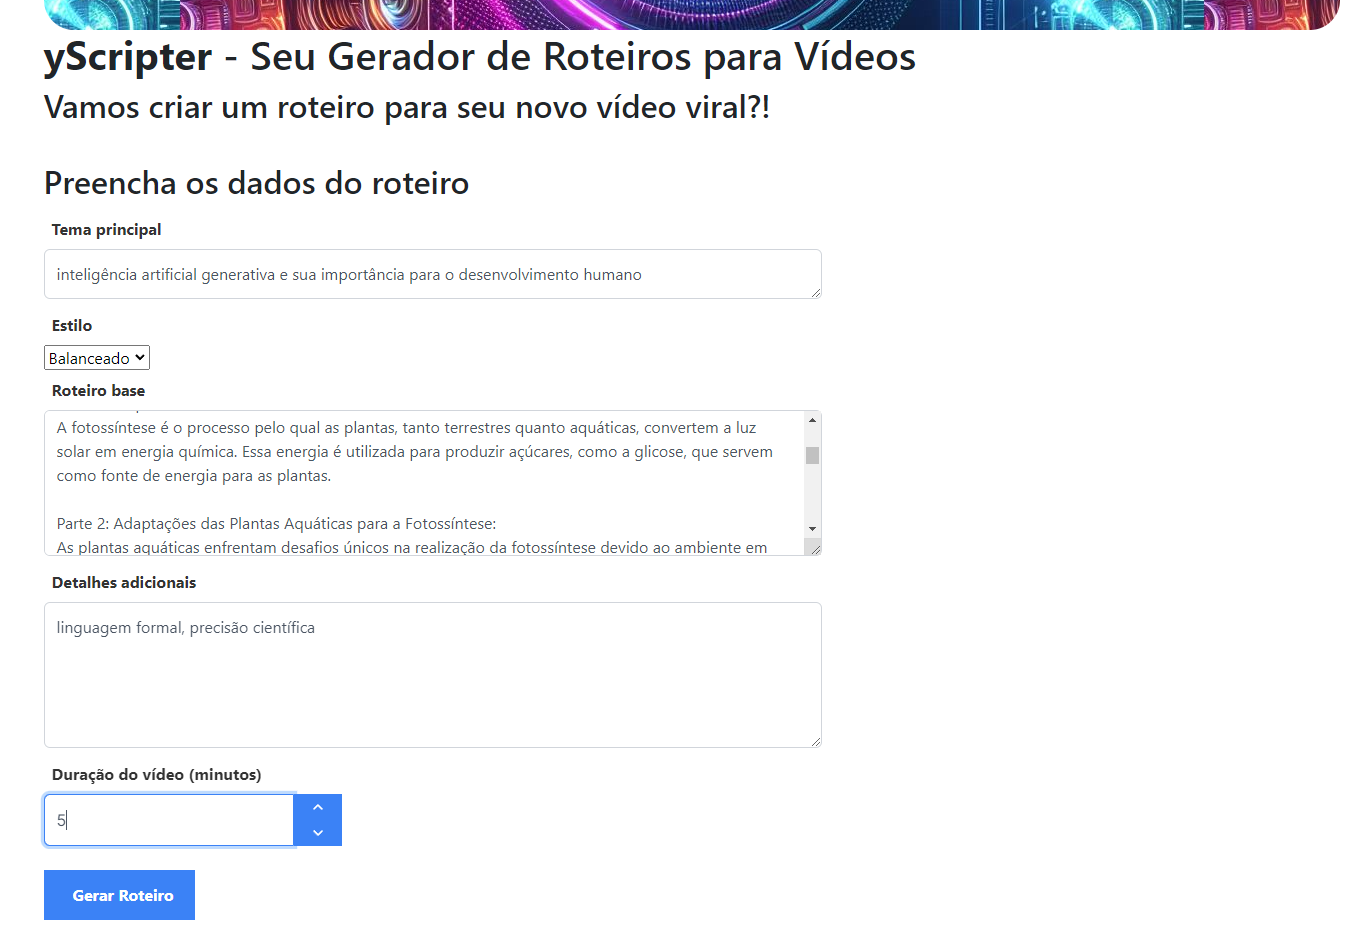
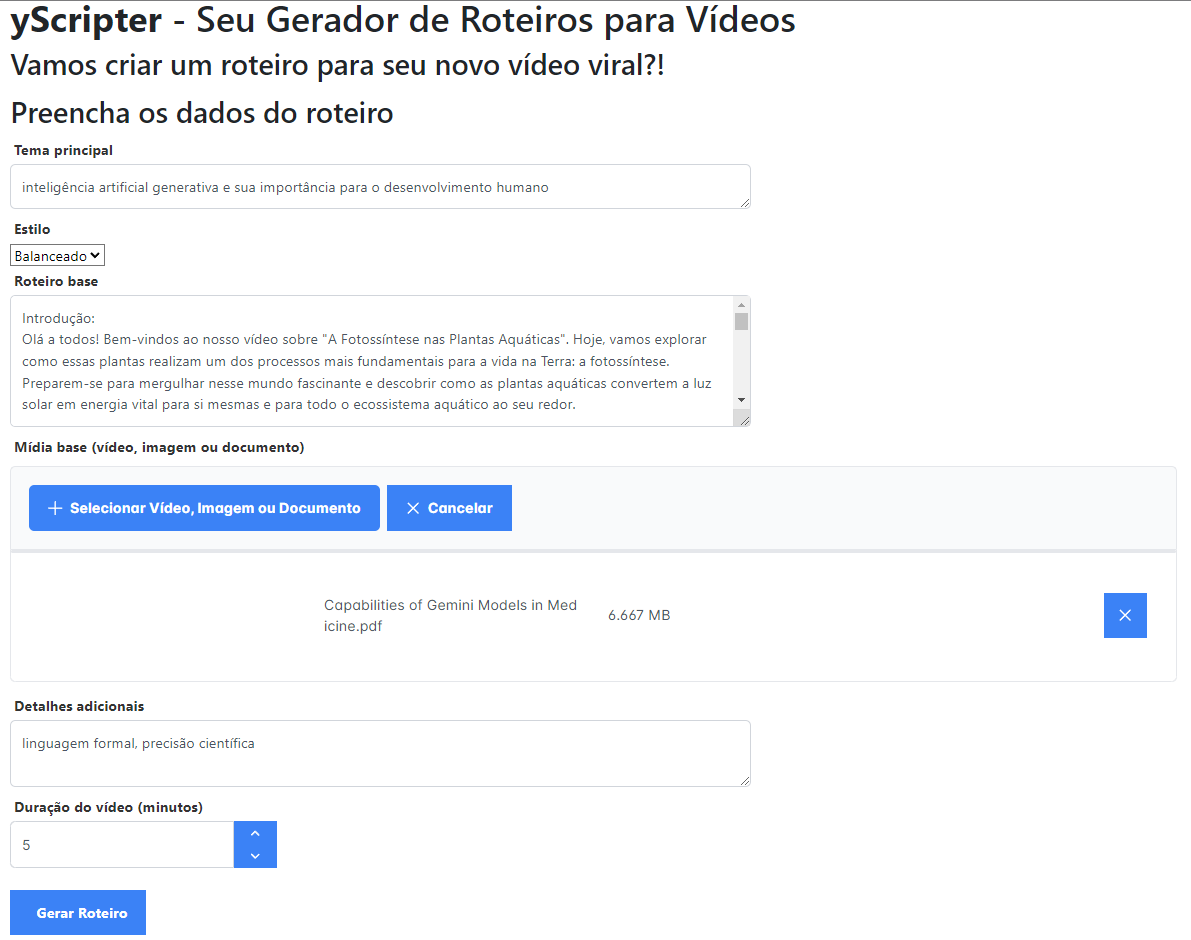
Implementation of multimedia based functionality

diff --git a/yscripter-app/src/app/generate-script/generate-script.component.html b/yscripter-app/src/app/generate-script/generate-script.component.html
@@ -36,7 +36,41 @@
             [(ngModel)]="reutilize">
         </textarea>
     </div>
-    
+
+    <div>
+        <label class="custom-label" for="reutilize">Mídia base (vídeo, imagem ou documento)</label>
+    </div>
+    <div class="upload-images-container">
+        <!-- [auto]="true"  -->
+        <!--  -->
+        <p-fileUpload 
+            name="file[]" 
+            url="http://localhost:5000/uploadfake"
+            (onSelect)="onSelect($event)"
+            (onCancel)="onCancel()"
+            [showUploadButton]="false"
+            [multiple]="false"
+            chooseLabel="Selecionar Vídeo, Imagem ou Documento"
+            cancelLabel="Cancelar">
+            <ng-template pTemplate="content">
+                <div *ngIf="loading" style="text-align: center;">
+                    <p-progressSpinner 
+                        styleClass="w-4rem h-4rem" 
+                        strokeWidth="2" 
+                        fill="var(--surface-ground)" 
+                        animationDuration="0.8s" />
+                </div>
+                <!-- <p *ngIf="!uploadedFiles.length && !hasSelectedFiles" style="text-align: center; margin: 0px;">Selecione as fotos e clique em "Avaliar Veículo".</p>
+                <p *ngIf="showEvaluateInfo" style="text-align: center; margin: 0px;">Avaliação Concluída.</p> -->
+                <!-- <ul *ngIf="uploadedFiles.length">
+                    <li *ngFor="let file of uploadedFiles">
+                        {{ file.name }} - {{ file.size }} bytes
+                    </li>
+                </ul> -->
+            </ng-template>
+        </p-fileUpload>
+    </div>
+
     <div>
         <label class="custom-label" for="details">Detalhes adicionais</label>
     </div>
@@ -45,7 +79,7 @@
             rows="2"
             cols="100" 
             pInputTextarea 
-            placeholder="Adicione details adicionais (opcional) (Exemplos: Diálogo informal, Diálogo formal, Precisão científica etc.)"
+            placeholder="Adicione detalhes adicionais (Exemplos: Diálogo informal, Diálogo formal, Precisão científica etc.)"
             [(ngModel)]="details">
         </textarea>
     </div>

diff --git a/yscripter-app/src/app/generate-script/generate-script.component.ts b/yscripter-app/src/app/generate-script/generate-script.component.ts
@@ -24,47 +24,59 @@ export class GenerateScriptComponent {
   reutilize: any;
   details: any;
 
+  formData = new FormData();
+
   estilos: Array<string> = ["Preciso", "Balanceado", "Criativo"];
 
   constructor(private http: HttpClient, private messageService: MessageService) { }
 
-  onUpload(event: any) {
-
-  }
-
   onClick() {
-    const formData = new FormData();
-    formData.append('theme', this.theme);
-    formData.append('style', this.style);
-    formData.append('reutilize', this.reutilize);
-    formData.append('details', this.details);
+    this.formData.append('reutilize', this.reutilize);
+    this.formData.append('details', this.details);
     if (this.duration) {
-      formData.append('duration', this.duration.toString());
+      this.formData.append('duration', this.duration.toString());
     }
 
-    if (this.theme == null || this.theme == undefined) {
+    if (!this.theme) {
       this.theme = "Tema aleatório"
     }
+    this.formData.append('theme', this.theme);
 
-    if (this.style == null || this.style == undefined) {
+    if (!this.style) {
       this.style = "0.5"
     }
-    
+    this.formData.append('style', this.style);
 
     this.loading = true;
-    this.http.post('http://localhost:5000/generate-script', formData).subscribe({
+    this.http.post('http://localhost:5000/generate-script', this.formData).subscribe({
       next: (response) => {
         this.apiResult = response;
         this.uploadedFile = [];
         this.loading = false;
       },
       error: (error) => {
+        this.loading = false;
         this.messageService.add({ severity: 'error', summary: 'Upload Error', detail: error.message });
       }
     });
   }
 
-  onSelect() {
+  onSelect(event: any) {
     this.apiResult = null;
+    for (let file of (event as UploadEvent).files) {
+      this.formData.append("file[]", file);
+      this.uploadedFile.push(file);
+    }
+  }
+
+  onUpload(event: any) {
+    for (let file of (event as UploadEvent).files) {
+      this.formData.append("file[]", file);
+      this.uploadedFile.push(file);
+    }
+  }
+
+  onCancel() {
+    this.loading = false;
   }
 }

diff --git a/yscripter-app/src/app/generate-script/generate-script.component.scss b/yscripter-app/src/app/generate-script/generate-script.component.scss
@@ -14,7 +14,8 @@
 
 .upload-images-container,
 .result-container {
-    margin-top: 30px;
+    margin-top: 6px;
+    margin-bottom: 10px;
 }
 
 .result-container h1 {
@@ -37,10 +38,10 @@
     border: 1px solid #ccc;
     border-radius: 4px;
     width: 100%;
-    box-sizing: border-box; /* Garante que o padding não afete a largura total */
+    box-sizing: border-box;
 }
 
 .custom-input:focus {
-    outline: none; /* Remove a borda de foco padrão */
-    border-color: #007bff; /* Cor da borda quando o input está em foco */
+    outline: none;
+    border-color: #007bff;
 }

diff --git a/yscripter-api/endpoints/generate_script.py b/yscripter-api/endpoints/generate_script.py
@@ -1,8 +1,17 @@
 from flask import Blueprint, request, jsonify
 from PIL import Image
 from IPython.display import Markdown
+import re
+import tempfile
+from docx import Document
+from openpyxl import load_workbook
+from pptx import Presentation
+from PyPDF2 import PdfReader
+
+
 
 import google.generativeai as genai
+from google.cloud import documentai_v1 as documentai
 import os
 import json
 
@@ -27,7 +36,10 @@ def generateScript():
     details = request.form.get('details')
     duration = request.form.get('duration')
 
-    API_KEY = <GOOGLE_API_KEY>
+    files = request.files.getlist('file[]')
+    media = 'None'
+
+    API_KEY = "AIzaSyB_5rTOmzKOkh6YvhOWjU06OzLt32aBMvE"
 
     genai.configure(api_key=API_KEY)
 
@@ -37,39 +49,132 @@ def generateScript():
     }
 
     model = genai.GenerativeModel(
-        model_name='gemini-1.0-pro',
+        model_name='gemini-1.5-pro-latest',
         generation_config=generation_config,
     )
 
     safety_settings = [
         {
             "category": "HARM_CATEGORY_HARASSMENT",
-            "threshold": "BLOCK_MEDIUM_AND_ABOVE"
+            "threshold": "BLOCK_ONLY_HIGH"
         },
         {
             "category": "HARM_CATEGORY_HATE_SPEECH",
-            "threshold": "BLOCK_MEDIUM_AND_ABOVE"
+            "threshold": "BLOCK_ONLY_HIGH"
         },
         {
             "category": "HARM_CATEGORY_SEXUALLY_EXPLICIT",
-            "threshold": "BLOCK_MEDIUM_AND_ABOVE"
+            "threshold": "BLOCK_ONLY_HIGH"
         },
         {
             "category": "HARM_CATEGORY_DANGEROUS_CONTENT",
-            "threshold": "BLOCK_MEDIUM_AND_ABOVE"
+            "threshold": "BLOCK_ONLY_HIGH"
         },
     ]
 
-    prompt = "aja como um roteirista profissional. Escreva o texto para um vídeo com duração " + str(duration) + " minutos considerando como parâmetros: theme: " + theme
+    file_path = ""
+
+    prompt = "aja como um roteirista profissional. Escreva o texto para um vídeo com duração " + str(duration) + " minutos considerando como parâmetros: tema: " + theme
     if (reutilize != 'undefined'):
         prompt += "; com base na estrutura do texto: " + reutilize
     if (details != 'undefined'):
-        prompt += "; details adicionais: " + details
+        prompt += "; detalhes adicionais: " + details
 
-    response = model.generate_content(prompt)
+    response = ""
+
+    if len(files) > 0:
+        for file in files:
+            file_dir = tempfile.gettempdir()
+            file_path = os.path.join(file_dir, file.filename)
+            file.save(file_path)
+            media = genai.upload_file(path=file_path, display_name="Arquivo")
+            if (is_document(file_path) == False):
+                prompt += "; com base no conteúdo da mídia em anexo"
+                response = model.generate_content([prompt, media], stream=True)
+            else:
+                media = extract_text_from_document(file_path)
+                prompt += "; com base no conteúdo extraido de um documento: " + media
+                response = model.generate_content([prompt], stream=True)
+
     response.resolve()
 
-    resultText = response.text.split('\n\n')
+    resultText = ''
+
+    if (len(response.parts) > 0):
+        for part in response.parts:
+            resultText += part.text
+    else:
+        resultText = response.text
+
+    resultText = resultText.split('\n\n')
+
+    os.remove(file_path)
 
     return jsonify(resultText), 200
 
+def is_document(filepath):
+    document_extensions = ['.pdf', '.doc', '.docx', '.xls', '.xlsx', '.ppt', '.pptx', '.txt']
+    extension = get_last_four_digits(filepath)
+    return extension in document_extensions
+
+def extract_text_from_document(document_path):
+    if get_last_four_digits(document_path) in ['doc', 'docx']:
+        print('doc')
+        return extract_text_from_docx(document_path)
+    elif get_last_four_digits(document_path) in 'pdf':
+        print('pdf')
+
+        return extract_text_from_pdf(document_path)
+    elif get_last_four_digits(document_path) in ['xls', 'xlsx']:
+        print('xls')
+        return extract_text_from_xlsx(document_path)
+    elif get_last_four_digits(document_path) in ['ppt', 'pptx']:
+        print('ppt')
+        return extract_text_from_pptx(document_path)
+    elif get_last_four_digits(document_path) in 'txt':
+        print('txt')
+        return extract_text_from_txt(document_path)
+    else:
+        return 'None'
+    
+
+def extract_text_from_txt(txt_path):
+    text = ''
+    with open(txt_path, 'r', encoding='utf-8') as file:
+        for line in file:
+            text += line
+    return text
+
+def extract_text_from_pdf(pdf_path):
+    with open(pdf_path, 'rb') as pdf_file:
+        reader = PdfReader(pdf_file)
+        text = ''
+        for page in reader.pages:
+            text += page.extract_text()
+        return text
+
+def extract_text_from_docx(docx_path):
+    doc = Document(docx_path)
+    text = '\n'.join(paragraph.text for paragraph in doc.paragraphs)
+    return text
+
+def extract_text_from_xlsx(xlsx_path):
+    wb = load_workbook(xlsx_path)
+    text = ''
+    for sheet in wb.worksheets:
+        for row in sheet.iter_rows(values_only=True):
+            text += ' '.join(str(cell) for cell in row if cell) + '\n'
+    return text
+
+
+def extract_text_from_pptx(pptx_path):
+    prs = Presentation(pptx_path)
+    text = ''
+    for slide in prs.slides:
+        for shape in slide.shapes:
+            if hasattr(shape, "text"):
+                text += shape.text + '\n'
+    return text
+
+def get_last_four_digits(string):
+    return string[-4:]

diff --git a/yscripter-api/endpoints/upload_fake.py b/yscripter-api/endpoints/upload_fake.py
@@ -1,0 +1,7 @@
+from flask import Blueprint
+
+upload_fakebp = Blueprint('upload_fake', __name__)
+
+@upload_fakebp.route('/uploadfake', methods=['POST'])
+def upload_fake():
+    return {"success": "true"}, 200

diff --git a/yscripter-api/endpoints/hello_world.py b/yscripter-api/endpoints/hello_world.py
@@ -1,0 +1,7 @@
+from flask import Blueprint
+
+hello_world_bp = Blueprint('hello_world', __name__)
+
+@hello_world_bp.route('/')
+def hello_world():
+    return 'Hello World'

diff --git a/yscripter-api/README.md b/yscripter-api/README.md
@@ -22,6 +22,14 @@ Siga as instruções abaixo para configurar o **yScripter** no ambiente de desen
     pip install Pillow
     ```
 
+3. **Instalação de Ferramentas de Extração de Dados de Documentos:** Para trabalhar com extração de informações, classificação e análise de documentos de forma automatizada, será preciso instalar PyPDF2, python-docx, openpyxl e python-pptx. Execute os seguintes comandos:
+    ```bash
+    pip install PyPDF2
+    pip install python-docx
+    pip install openpyxl
+    pip install python-pptx
+    ```
+
 4. **Obtenção da Chave da API do Google Gemini:** Antes de prosseguir, é necessário obter uma chave de API do Google Gemini. Siga as instruções fornecidas pela Google para [criar uma chave de API](https://aistudio.google.com/app/apikey).
 
 ## Configuração da API
@@ -29,10 +37,10 @@ Siga as instruções abaixo para configurar o **yScripter** no ambiente de desen
 1. **Clonagem do Repositório:** Clone o repositório da API yScripter do GitHub para sua máquina local:
 
     ```bash
-    git clone https://github.com/wilerjrxd/YScripterPoweredByGoogleGemini.git
+    git clone https://github.com/wilerjrxd/yScripterPoweredByGoogleGemini.git
     ```
 
-2. **Configuração da Chave da API:** Após obter a chave da API do Google Gemini, como variável de sistema com o nome `GOOGLE_API_KEY`.
+2. **Configuração da Chave de API:** Após obter a chave de API do Google Gemini, substitua `<GOOGLE_API_KEY>` por sua chave de API.
 
 3. **Execução da API:** Execute os seguintes comando para iniciar a API:
 

diff --git a/README.md b/README.md
@@ -6,7 +6,9 @@ O **yScripter** é uma solução que permite aos usuários criar roteiros para v
 ## Como Funciona?
 **Preenchimento de Parâmetros**: Os usuários são guiados através de um formulário onde podem inserir informações como o tema principal do vídeo, o estilo desejado, a duração e quaisquer detalhes adicionais.
 
-**Geração de Roteiro**: Com base nos parâmetros fornecidos, o yScripter gera um roteiro personalizado para o vídeo, incorporando as preferências e especificações do usuário.
+**Base Multimídia**: O **yScripter** aceita como base de informação adicional vídeo, imagem ou documento.
+
+**Geração de Roteiro**: Com base nos parâmetros fornecidos, o **yScripter** gera um roteiro personalizado para o vídeo, incorporando as preferências e especificações do usuário.
 
 ## Vídeo de apresentação do yScripter
 *Em produção*
